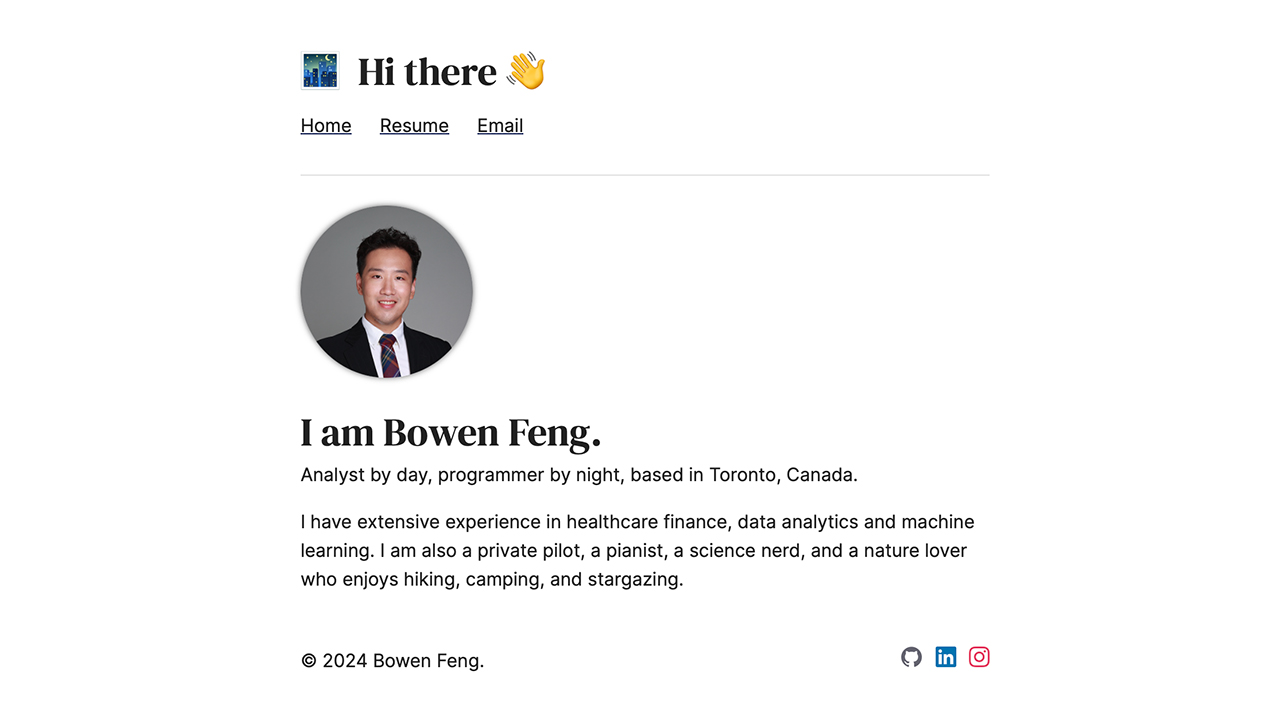
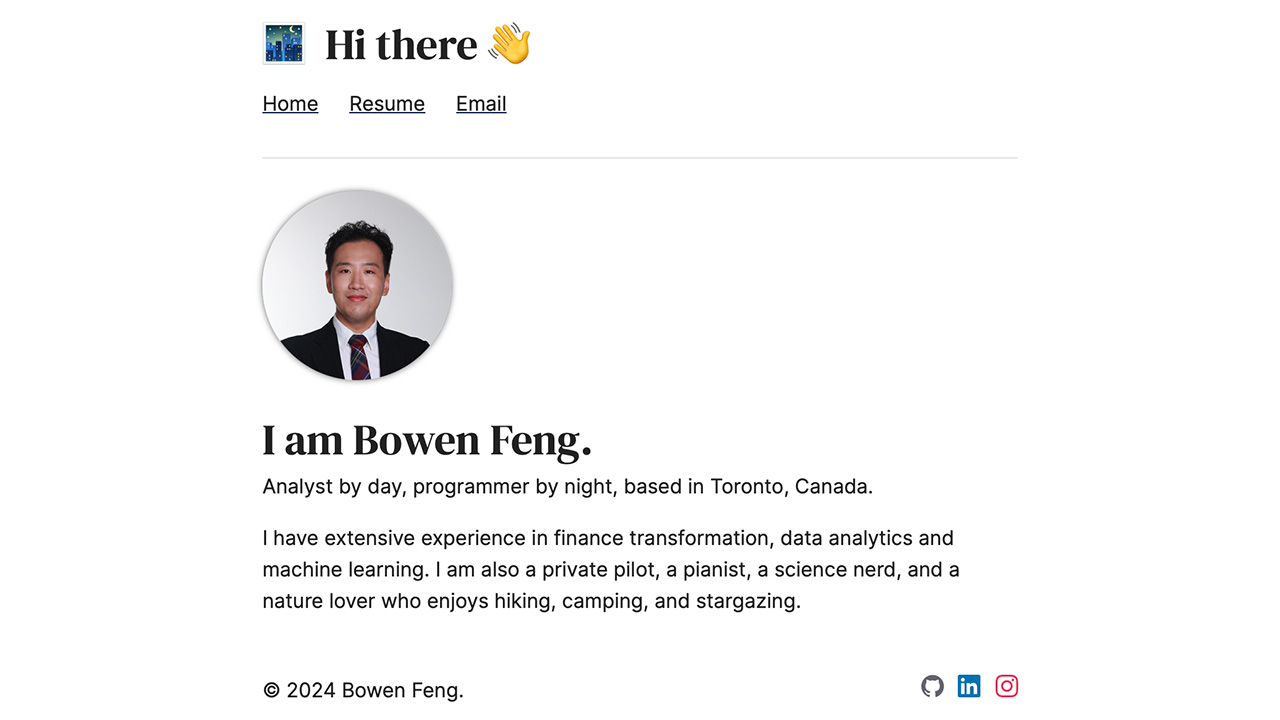
Site updated: 2025-12-24 16:53:08

diff --git a/Resume/index.html b/Resume/index.html
@@ -193,17 +193,7 @@
         <div class="trans">
             <h1>Resume</h1>
 
-  <h2 id="Work-Experience"><a href="#Work-Experience" class="headerlink" title="Work Experience"></a>Work Experience</h2><h3 style="text-align:left; margin-bottom: 0px">
-    Senior Application Specialist
-    <span style="float:right;">
-        11/2021 - Present
-    </span>
-</h3>
-<p>The Hospital for Sick Children</p>
-
-<hr>
-
-<h2 id="Education"><a href="#Education" class="headerlink" title="Education"></a>Education</h2><h3 style="text-align:left; margin-bottom: 0px">
+  <h2 id="Education"><a href="#Education" class="headerlink" title="Education"></a>Education</h2><h3 style="text-align:left; margin-bottom: 0px">
     Master of Management Analytics
     <span style="float:right;">
         01/2024 - 12/2024
@@ -229,7 +219,33 @@
 
 <hr>
 
-<h2 id="Volunteering"><a href="#Volunteering" class="headerlink" title="Volunteering"></a>Volunteering</h2><h3 style="text-align:left; margin-bottom: 0px">
+<h2 id="Work-Experience"><a href="#Work-Experience" class="headerlink" title="Work Experience"></a>Work Experience</h2><h3 style="text-align:left; margin-bottom: 0px">
+    Senior Application Specialist
+    <span style="float:right;">
+        11/2025 - Present
+    </span>
+</h3>
+<p>Finance Transformation, the Hospital for Sick Children</p>
+
+<h3 style="text-align:left; margin-bottom: 0px">
+    Senior Application Specialist
+    <span style="float:right;">
+        11/2021 - 10/2025
+    </span>
+</h3>
+<p>Financial Accounting & Reporting, the Hospital for Sick Children</p>
+
+<hr>
+
+<h2 id="Other-Experience"><a href="#Other-Experience" class="headerlink" title="Other Experience"></a>Other Experience</h2><h3 style="text-align:left; margin-bottom: 0px">
+    Private Pilot
+    <span style="float:right;">
+        06/2025 - Present
+    </span>
+</h3>
+<br>
+
+<h3 style="text-align:left; margin-bottom: 0px">
     President, MM Society
     <span style="float:right;">
         01/2020 - 12/2020

diff --git a/index.html b/index.html
@@ -201,7 +201,7 @@
     <!-- Main information, edit it on theme/_config.yml -->
     <h1 class="mb-2">I am Bowen Feng.</h1>
     <p>Analyst by day, programmer by night, based in Toronto, Canada.</p>
-    <p>I have extensive experience in healthcare finance, data analytics and machine learning. I am also a private pilot, a pianist, a science nerd, and a nature lover who enjoys hiking, camping, and stargazing.</p>
+    <p>I have extensive experience in finance transformation, data analytics and machine learning. I am also a private pilot, a pianist, a science nerd, and a nature lover who enjoys hiking, camping, and stargazing.</p>
   </div>
 </div>
 
